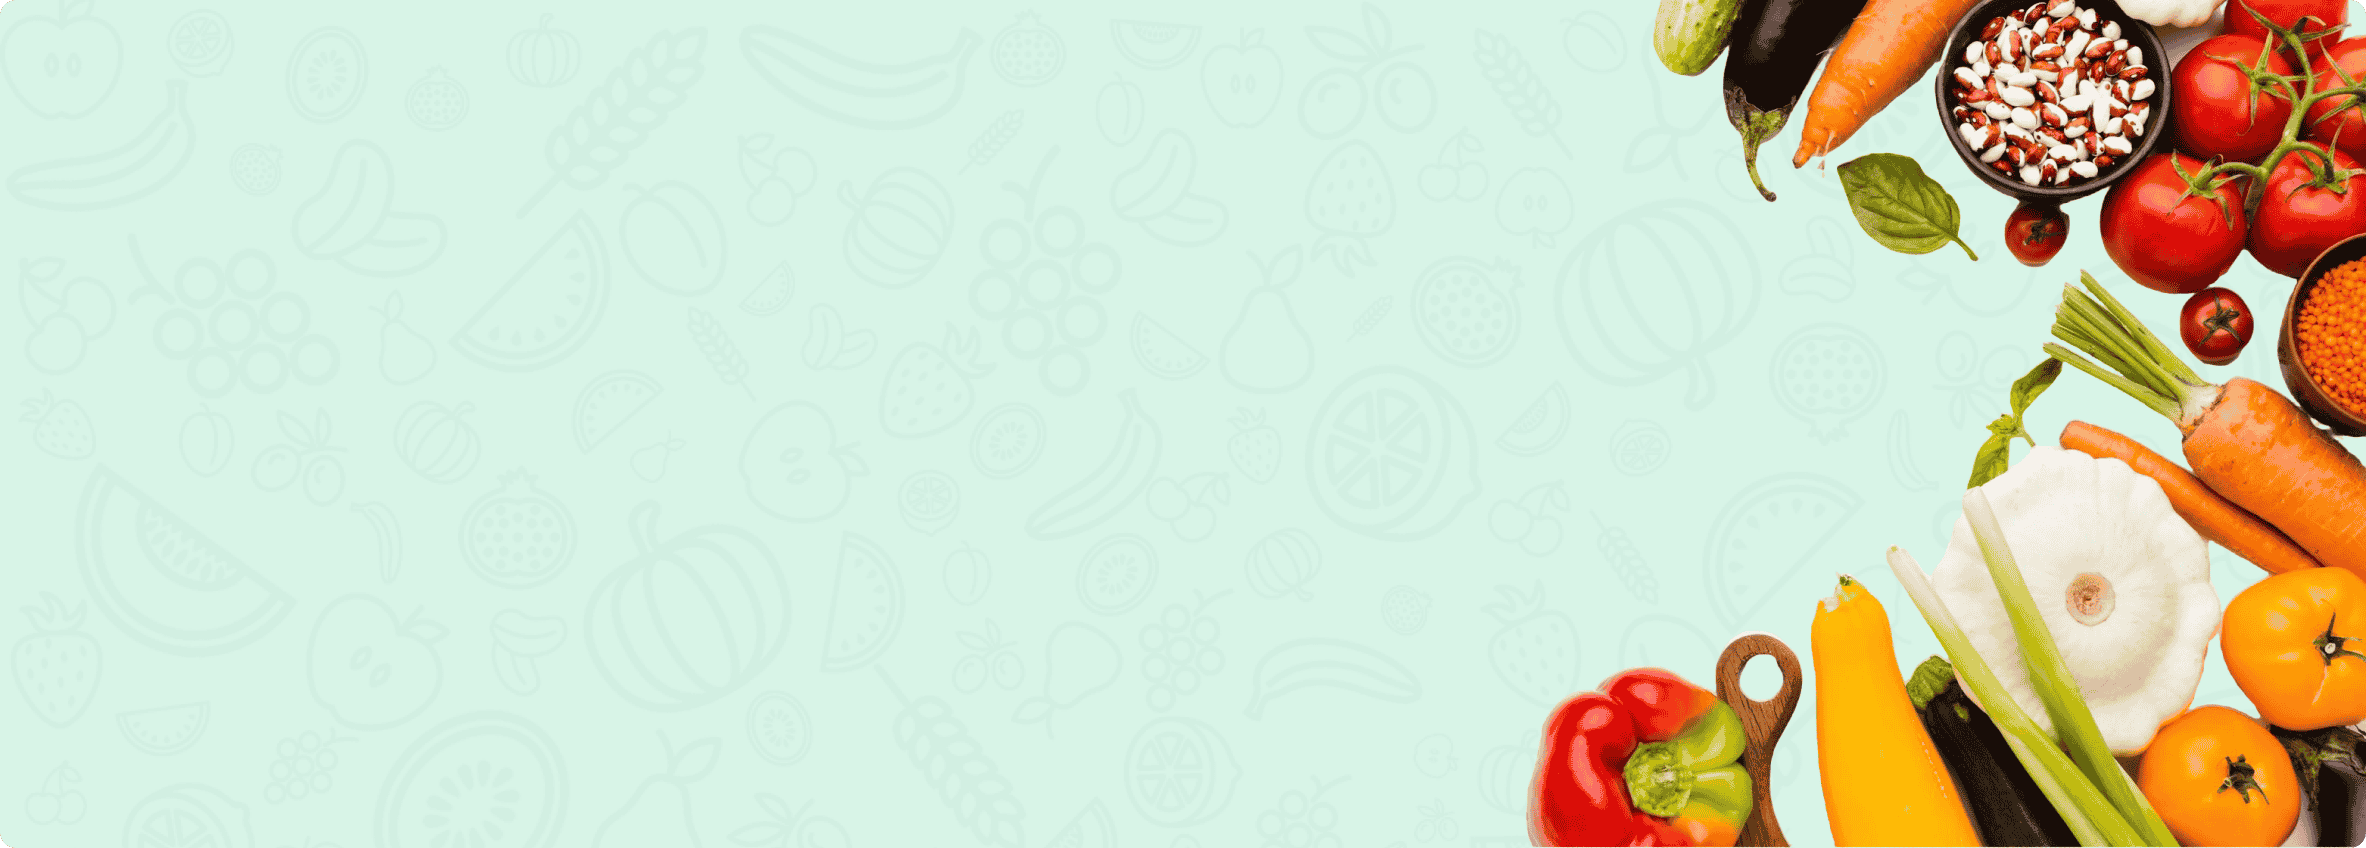
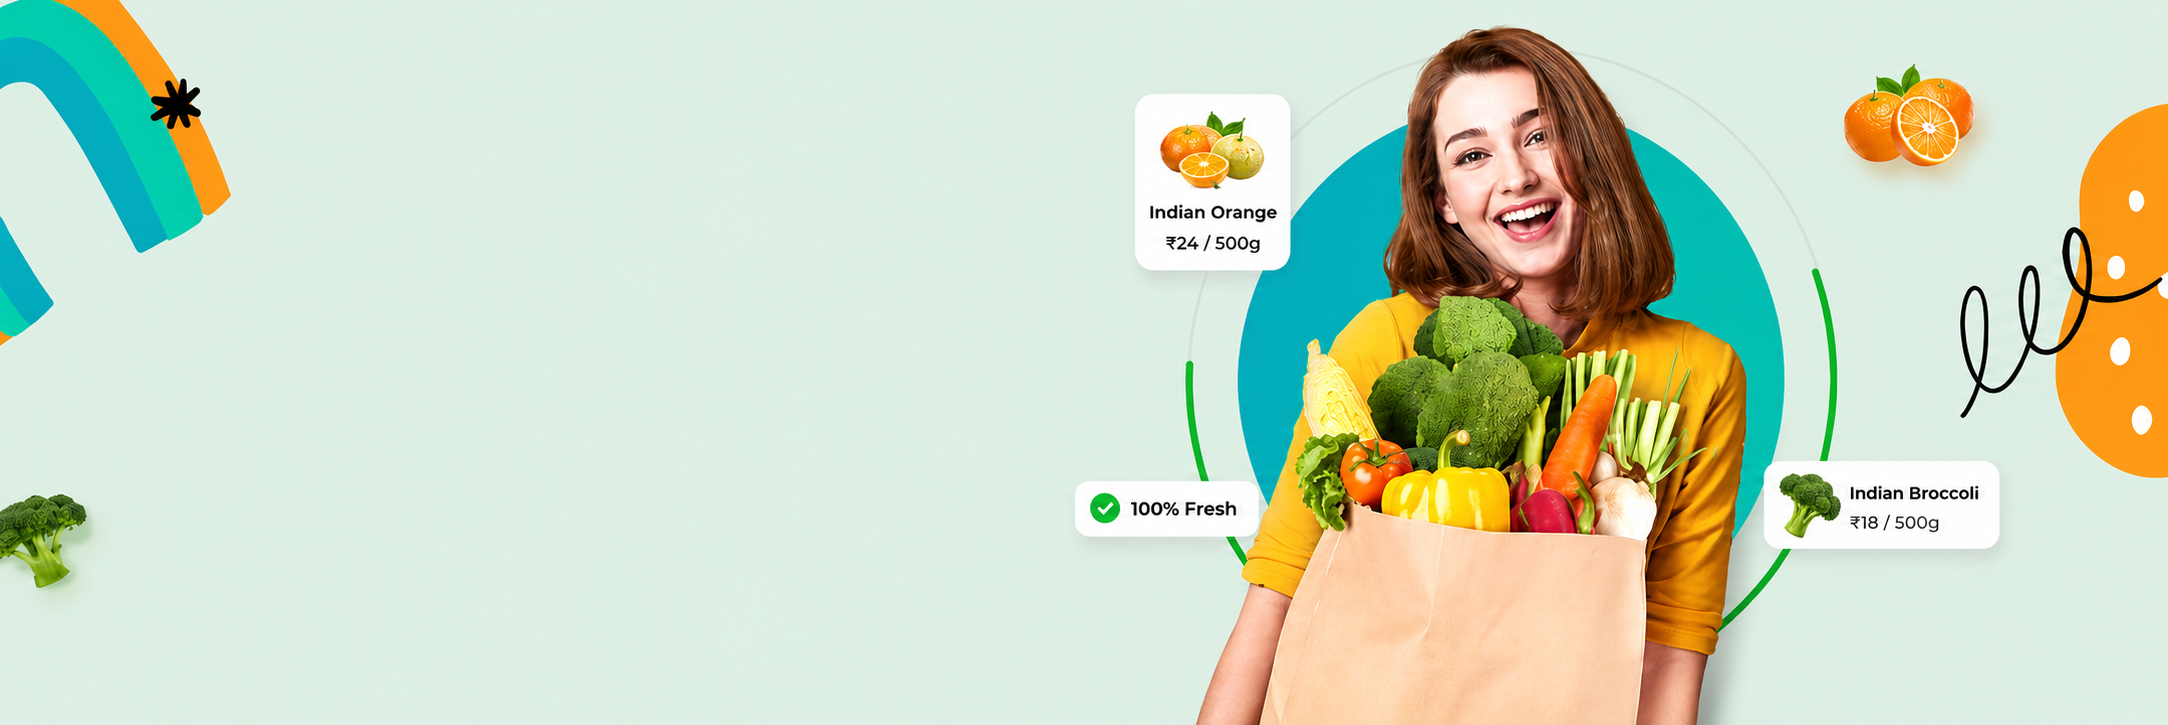
Fix bugs in Cart and Orders, update branding assets, and prevent duplicate orders

diff --git a/client/src/pages/seller/Orders.jsx b/client/src/pages/seller/Orders.jsx
@@ -42,15 +42,15 @@ const Orders = () => {
         <div className='no-scrollbar flex-1 h-[95vh] overflow-y-scroll'>
     <div className="md:p-10 p-4 space-y-4">
             <h2 className="text-lg font-medium">Orders List</h2>
-            {orders.map((order, index) => (
+            {orders?.map((order, index) => (
                 <div key={index} className="flex flex-col md:items-center md:flex-row gap-5 justify-between p-5 max-w-4xl rounded-md border border-gray-300">
                     <div className="flex gap-5 max-w-80">
                         <img className="w-12 h-12 object-cover" src={assets.box_icon} alt="boxIcon" />
                         <div>
-                            {order.items.map((item, index) => (
+                            {order.items?.map((item, index) => (
                                 <div key={index} className="flex flex-col">
                                     <p className="font-medium">
-                                        {item.product.name}{" "} <span className="text-primary">x {item.quantity}</span>
+                                        {item.product?.name || "Unknown Product"}{" "} <span className="text-primary">x {item.quantity}</span>
                                     </p>
                                 </div>
                             ))}
@@ -58,11 +58,11 @@ const Orders = () => {
                     </div>
 
                     <div className="text-sm md:text-base text-black/60">
-                        <p className='text-black/80'>{order.address.firstName} {order.address.lastName}</p>
-                        <p>{order.address.street}, {order.address.city}</p> 
-                        <p>{order.address.state},{order.address.zipcode}, {order.address.country}</p>
+                        <p className='font-medium text-black/80'>Orderd By: {order.userId?.name}</p>
+                        <p>{order.address?.street}, {order.address?.city}</p> 
+                        <p>{order.address?.state},{order.address?.zipcode}, {order.address?.country}</p>
                         <p></p>
-                        <p>{order.address.phone}</p>
+                        <p>{order.address?.phone}</p>
                     </div>
 
                     <p className="font-medium text-lg my-auto">{currency}{order.amount}</p>

diff --git a/client/src/pages/Cart.jsx b/client/src/pages/Cart.jsx
@@ -10,13 +10,15 @@ const Cart = () => {
     const [showAddress, setShowAddress] = useState(false)
     const [selectedAddress, setSelectedAddress] = useState(null)
     const [paymentOption, setPaymentOption] = useState("COD")
+    const [isPlacingOrder, setIsPlacingOrder] = useState(false)
 
     const getCart = () => {
         let tempArray = []
         for (const key in cartItems) {
             const product = products.find((item) => item._id === key)
-            product.quantity = cartItems[key]
-            tempArray.push(product)
+            if (product) {
+                tempArray.push({ ...product, quantity: cartItems[key] })
+            }
         }
         setCartArray(tempArray)
     }
@@ -36,8 +38,11 @@ const Cart = () => {
     }
 
     const placeOrder = async () => {
+        if (isPlacingOrder) return;
+        setIsPlacingOrder(true);
         try {
             if (!selectedAddress) {
+                setIsPlacingOrder(false);
                 return toast.error("Please select an address")
             }
 
@@ -72,6 +77,8 @@ const Cart = () => {
             }
         } catch (error) {
             toast.error(error.message)
+        } finally {
+            setIsPlacingOrder(false);
         }
     }
 
@@ -188,8 +195,8 @@ const Cart = () => {
                     </p>
                 </div>
 
-                <button onClick={placeOrder} className="w-full py-3 mt-6 cursor-pointer bg-primary text-white font-medium hover:bg-primary-dull transition">
-                    {paymentOption === "COD" ? "Place Order" : "Proceed to Checkout"}
+                <button onClick={placeOrder} disabled={isPlacingOrder} className={`w-full py-3 mt-6 cursor-pointer text-white font-medium transition ${isPlacingOrder ? 'bg-gray-400' : 'bg-primary hover:bg-primary-dull'}`}>
+                    {isPlacingOrder ? "Placing Order..." : (paymentOption === "COD" ? "Place Order" : "Proceed to Checkout")}
                 </button>
             </div>
         </div>

diff --git a/server/controllers/orderController.js b/server/controllers/orderController.js
@@ -27,6 +27,9 @@ export const placeOrderCOD = async (req, res)=>{
             paymentType: "COD",
         });
 
+        // Clear user cart
+        await User.findByIdAndUpdate(userId, {cartItems: {}});
+
         return res.json({success: true, message: "Order Placed Successfully" })
     } catch (error) {
         return res.json({success: false, message: error.message});
@@ -139,7 +142,7 @@ export const stripeWebhook = async (req, res)=>{
             //Mark Payment as Paid
             await Order.findByIdAndUpdate(orderId, {isPaid: true})
             //Clear User Cart
-            await User.findByIdAndUpdate(userId, {cartItems: []});
+            await User.findByIdAndUpdate(userId, {cartItems: {}});
             break;
         }
         case "payment_intent.payment_failed": {
@@ -182,7 +185,7 @@ export const getUserOrders = async (req, res)=>{
 export const getAllOrders = async (req, res)=>{
     try {
         const orders = await Order.find({})
-            .populate("items.product address").sort({createdAt: -1});
+            .populate("items.product address userId").sort({createdAt: -1});
         res.json({ success: true, orders });
     } catch (error) {
         res.json({ success: true, message: error.message });

diff --git a/client/src/pages/MyOrders.jsx b/client/src/pages/MyOrders.jsx
@@ -88,6 +88,7 @@ const MyOrders = () => {
             <div key={index} className='border border-gray-300 rounded-lg mb-10 p-4 py-5 max-w-4xl'>
                 <p className='flex justify-between md:items-center text-gray-400 md:font-medium max-md:flex-col'>
                     <span>OrderId : {order._id}</span>
+                    <span>Name : {user?.name}</span>
                     <span>Payment : {order.paymentType}</span>
                     <span>Total Amount : {currency}{order.amount}</span>
                 </p>

diff --git a/client/src/context/AppContext.jsx b/client/src/context/AppContext.jsx
@@ -132,7 +132,7 @@ export const AppContextProvider = ({children})=>{
             let totalAmount = 0;
             for (const items in cartItems){
                 let itemInfo = products.find((product)=> product._id === items);
-                if(cartItems[items] > 0){
+                if(itemInfo && cartItems[items] > 0){
                     totalAmount += itemInfo.offerPrice * cartItems[items]
                 }
             }

diff --git a/client/index.html b/client/index.html
@@ -4,7 +4,7 @@
     <meta charset="UTF-8" />
     <link rel="icon" type="image/svg+xml" href="/favicon.svg" />
     <meta name="viewport" content="width=device-width, initial-scale=1.0" />
-    <title>Tech Stack</title>
+    <title>MiniCart</title>
   </head>
   <body>
     <div id="root"></div>
